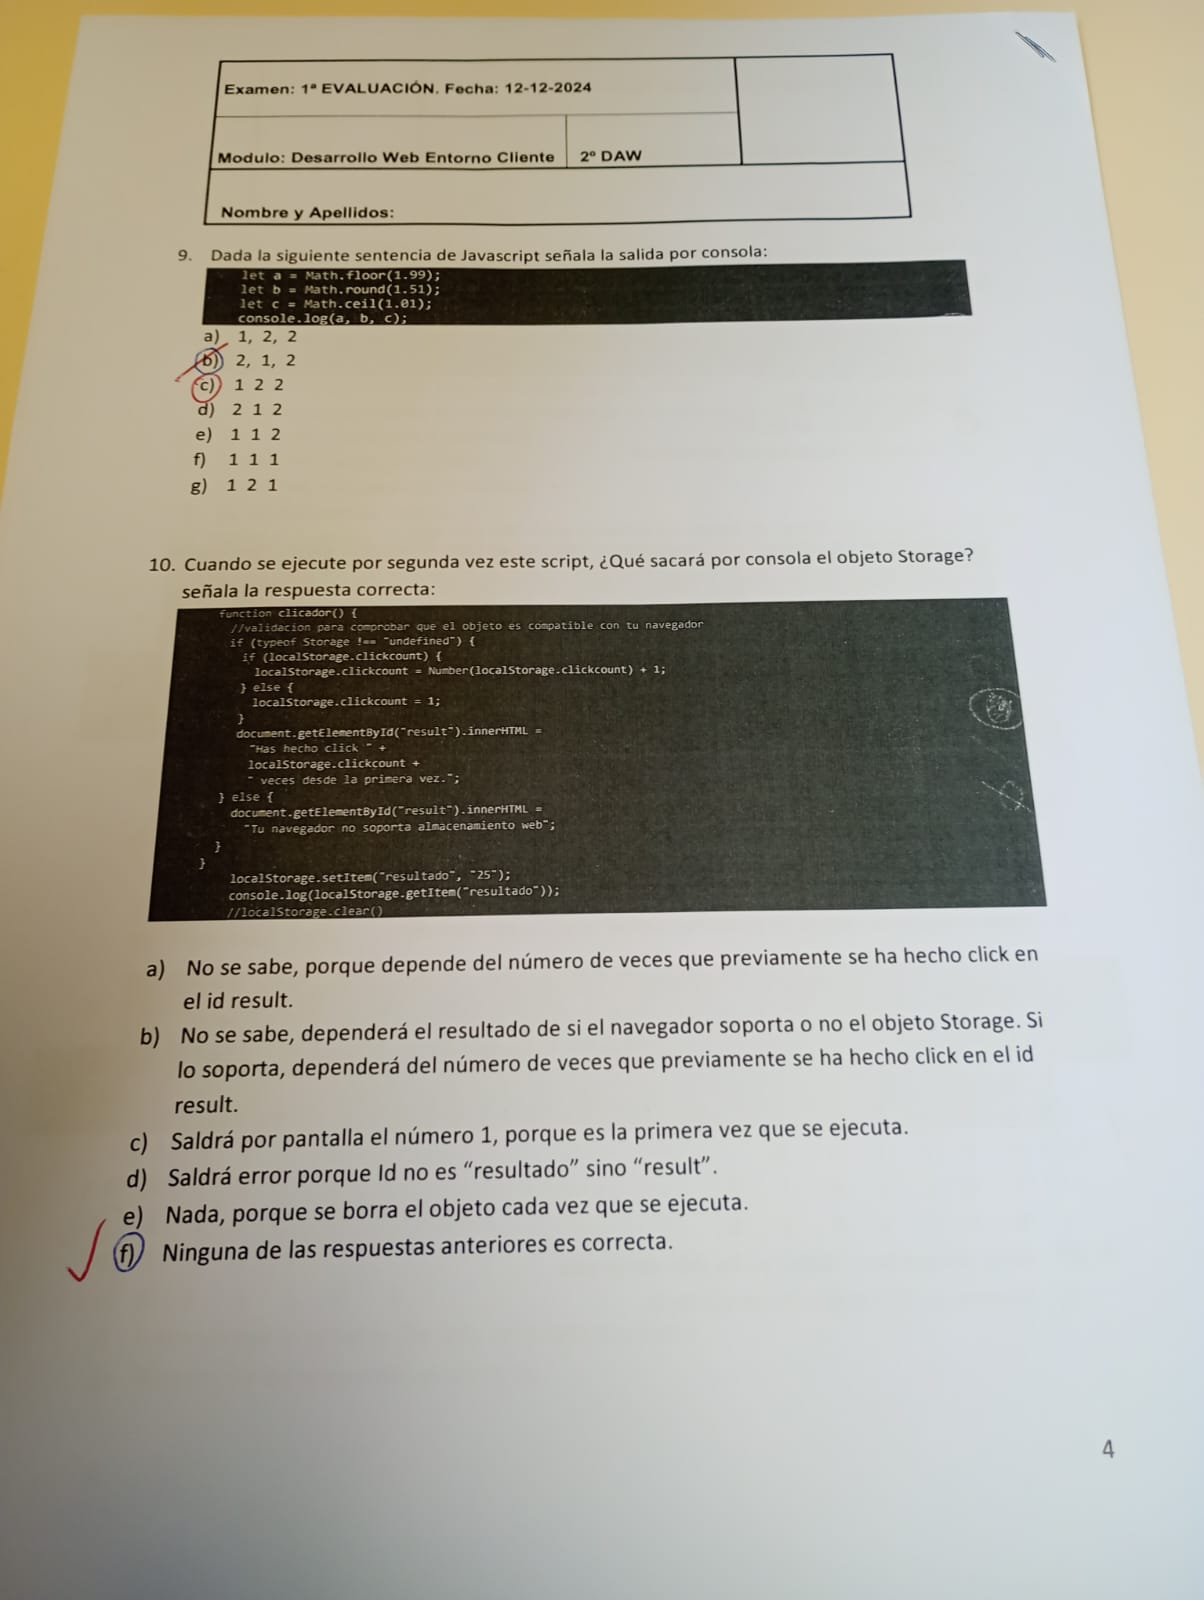
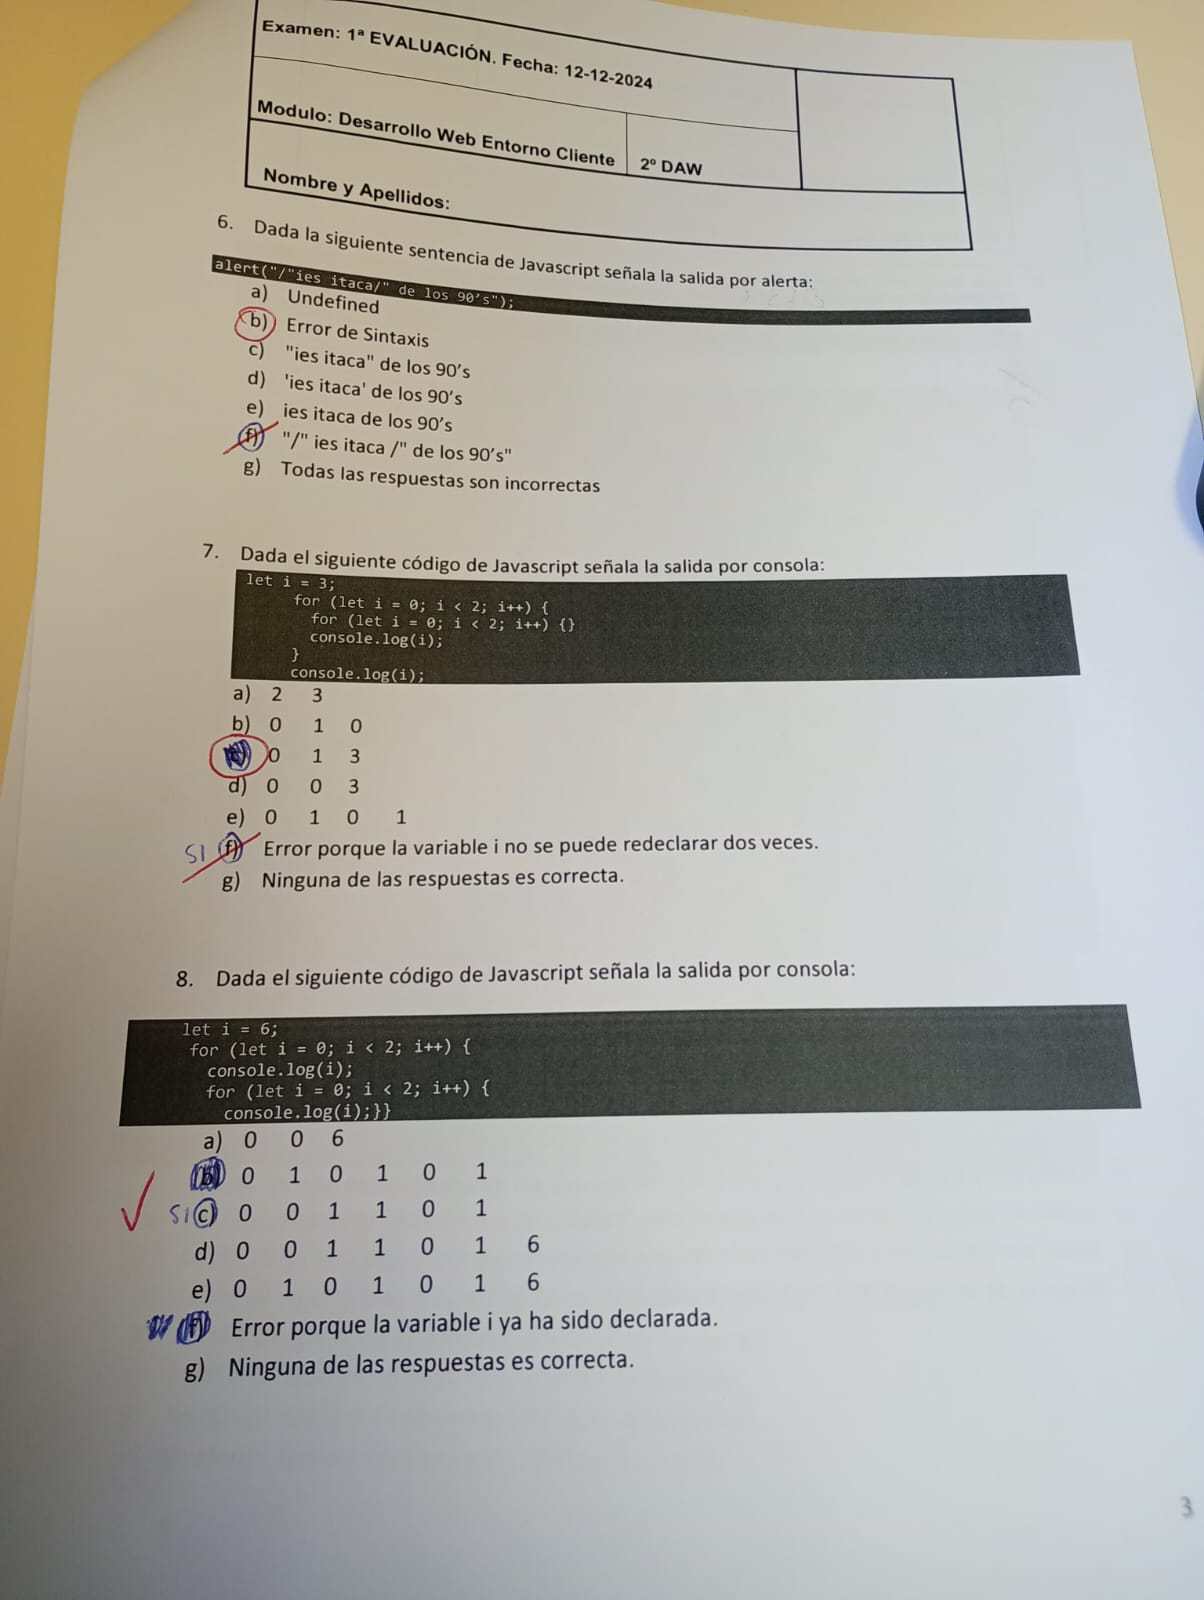
masPruebas_Examen

diff --git a/Entorno Cliente/examenPrueba/Ejercicio2_variante/code.js b/Entorno Cliente/examenPrueba/Ejercicio2_variante/code.js
@@ -1,0 +1,180 @@
+//llamamos a los elementos del DOM
+document.addEventListener('DOMContentLoaded', () => {
+    const camposReserva = {
+        nombre: document.getElementById('nombreReserva'),
+        telefono: document.getElementById('telefono'),
+        email: document.getElementById('emailReserva'),
+        codigo: document.getElementById('codigoReserva'),
+        fecha: document.getElementById('fechaLlegada'),
+        btnConfirmar: document.getElementById('btnConfirmar'),
+        mensaje: document.getElementById('msgReserva')
+    };
+
+    const camposPago = {
+        tarjeta: document.getElementById('numTarjeta'),
+        cvv: document.getElementById('cvv'),
+        titular: document.getElementById('titularTarjeta'),
+        btnPagar: document.getElementById('btnPagar'),
+        mensaje: document.getElementById('msgPago')
+    };
+
+    camposReserva.btnConfirmar.disabled = true;
+    camposPago.btnPagar.disabled = true;
+
+
+//implementamos funciones de validacion
+function validarTelefono(valor){
+//^ --> inicio  \d --> digitos  {9} --> 9 veces   $--> fin
+//TODO VA ENTRE / 
+// .test devuelve true or false, de si la validacion esta en valor
+    return /^\d{9}$/.test(valor);
+}
+
+function validarNombreReserva(valor){
+//. --> todos caracteres  {3,10}--> entre 3 y 10 veces
+
+    return /^.{3,10}$/.test(valor);
+}
+
+function validarEmailReserva(valor){
+//debe tener @ y .com o .es
+//la i despues de $/ se pone para declarar que es case insensitive
+    return /^.+@.*\.(com|es)$/i.test(valor);
+}
+
+function validarCodigoReserva(valor){
+//debe tener 3 letras(mayus o minus) y 4 digitos seguidos
+    return /^[A-Za-z]{3}\d{4}$/.test(valor);
+}
+
+function validarFecha(valor){
+    //comprueba que no está vacio
+    //trim devuelve string sin espacios en blanco
+    return valor.trim().length > 0;
+}
+
+// Funciones de PAGO
+    function validarTarjeta(valor) {
+        return /^\d{16}$/.test(valor);
+    }
+
+    function validarCVV(valor) {
+        return /^\d{3,4}$/.test(valor);
+    }
+
+    function validarTitular(valor) {
+        return /^[A-Za-zñÑáéíóúÁÉÍÓÚ\s]{3,}$/.test(valor);
+    }
+
+function validarCamposReserva() {
+    let errores = [];
+    let valido = true;
+
+    // Comprobación de obligatoriedad (usando camposReserva.propiedad)
+    if (!camposReserva.nombre.value || !camposReserva.telefono.value || !camposReserva.email.value || !camposReserva.codigo.value || !camposReserva.fecha.value) {
+        errores.push("Todos los campos de reserva son obligatorios.");
+        valido = false;
+    }
+
+    // Comprobación de reglas específicas
+    if (camposReserva.nombre.value && !validarNombreReserva(camposReserva.nombre.value)) {
+        errores.push("El nombre debe tener entre 3 y 10 caracteres.");
+        valido = false;
+    }
+
+    if (camposReserva.telefono.value && !validarTelefono(camposReserva.telefono.value)) {
+        errores.push("El teléfono debe tener 9 dígitos.");
+        valido = false;
+    }
+
+    if (camposReserva.email.value && !validarEmailReserva(camposReserva.email.value)) {
+        errores.push("El email debe ser válido y acabar en .com o .es.");
+        valido = false;
+    }
+
+    if (camposReserva.codigo.value && !validarCodigoReserva(camposReserva.codigo.value)) {
+        errores.push("El código debe ser: 3 letras + 4 números (ej: ABC1234).");
+        valido = false;
+    }
+    
+    // (La comprobación de fecha no necesita corrección aquí, ya que ya usa camposReserva.fecha)
+
+    // Mostrar mensajes y habilitar botón
+    camposReserva.mensaje.className = 'mensaje';
+    if (errores.length > 0) {
+        camposReserva.mensaje.classList.add('error');
+        // Usamos <br> y emoji para separar los errores
+        camposReserva.mensaje.innerHTML = `${errores.join('<br/>')}`;
+        camposReserva.btnConfirmar.disabled = true;
+    } else if (valido) {
+        camposReserva.mensaje.classList.add('success');
+        camposReserva.mensaje.innerHTML = "Datos válidos.";
+        camposReserva.btnConfirmar.disabled = false;
+    }
+
+    return valido;
+}
+
+Object.values(camposReserva).forEach(campo => {
+    if(campo.tagName == 'INPUT'){
+        campo.addEventListener('input', validarCamposReserva);
+    }
+});
+
+// Evento del botón de Confirmar Reserva
+    camposReserva.btnConfirmar.addEventListener('click', () => {
+        camposReserva.btnConfirmar.disabled = true;
+        camposPago.btnPagar.disabled = false;
+        camposReserva.mensaje.innerHTML = "Reserva confirmada. Proceda al pago.";
+    });
+
+    // Ejecución inicial (para deshabilitar si está vacío)
+    validarCamposReserva();
+
+    // --- LÓGICA DE PAGO (Paso 4, que faltaba) ---
+    // AÑADE AQUÍ LOS BLOQUES DE VALIDACIÓN DE PAGO DEL PUNTO 2
+    camposPago.btnPagar.addEventListener('click', (e) => {
+        e.preventDefault(); 
+
+        let errores = [];
+        const{
+            tarjeta, cvv, titular, btnPagar, mensaje
+        } = camposPago;
+        let valido = true;
+
+        // 1. Verificar OBLIGATORIEDAD
+        if (!tarjeta.value || !cvv.value || !titular.value) {
+            errores.push("Todos los campos de pago son obligatorios.");
+            valido = false;
+        }
+
+        // 2. Verificar REGLAS ESPECÍFICAS
+        if (tarjeta.value && !validarTarjeta(tarjeta.value)) {
+            errores.push("Número de Tarjeta debe tener 16 dígitos.");
+            valido = false;
+        }
+        if (cvv.value && !validarCVV(cvv.value)) {
+            errores.push("CVV debe tener 3 o 4 dígitos.");
+            valido = false;
+        }
+        if (titular.value && !validarTitular(titular.value)) {
+            errores.push("Titular debe tener al menos 3 letras.");
+            valido = false;
+        }
+
+        // 3. Mostrar mensajes y finalizar
+        mensaje.className = 'mensaje'; 
+        if (errores.length > 0) {
+            mensaje.classList.add('error');
+            mensaje.innerHTML = `Error en el pago. ${errores.join('<br/>')}`;
+        } else if(valido){
+            mensaje.classList.add('success');
+            mensaje.innerHTML = "Pago realizado con éxito. Reserva finalizada.";
+            btnPagar.disabled = true; // Deshabilitar el botón al finalizar el proceso
+        }
+    });
+    
+    // Ejecución inicial (necesaria para deshabilitar el botón si está vacío al cargar)
+    validarCamposReserva();
+
+});

diff --git a/Entorno Cliente/examenPrueba/Ejercicio1_variante/code.js b/Entorno Cliente/examenPrueba/Ejercicio1_variante/code.js
@@ -1,0 +1,91 @@
+class Hotel {
+    constructor(nombre, ciudad, estrellas) {
+        this._nombre = nombre;
+        this._ciudad = ciudad;
+        this._estrellas = estrellas;
+
+        this._plantas = [];
+        console.log(`Nuevo hotel creado: Nombre ${this._nombre}en ${this._ciudad}, Estrellas: ${this._estrellas}.`);
+    }
+
+    imprimeNombre() {
+        return this._nombre;
+    }
+
+    imprimeCiudad() {
+        return this._ciudad;
+    }
+
+    imprimeEstrellas() {
+        return this._estrellas;
+    }
+
+    modificarNombre(nuevoNombre) {
+        this._nombre = nuevoNombre;
+    }
+
+    modificarCiudad(nuevaCiudad) {
+        this._ciudad = nuevaCiudad;
+    }
+
+    modificarEstrellas(nuevasEstrellas) {
+        this._estrellas = nuevasEstrellas;
+    }
+
+    //agregar plantas y habitaciones
+    agregarPlantasYHabitaciones(numPlantas, habitaciones) {
+        for (let i = 0; i < numPlantas; i++) {
+            const nuevaPlanta = Array(habitaciones).fill("Libre");
+            this._plantas.push(nuevaPlanta);
+        }
+    }
+
+    agregarHuesped(nombre, planta, habitacion) {
+        //convertimos la planta(empiezan en 1) a indice(empiezan en 0)
+        const indicePlanta = planta - 1;
+        const indiceHabitacion = habitacion - 1;
+
+        if (indicePlanta < 0 || indicePlanta >= this._plantas.length) {
+            console.log(`ERROR: La planta ${planta} no es válida.`);
+            return;
+        }
+        if (!indiceHabitacion < 0 || indiceHabitacion >= this._plantas[indicePlanta].length) {
+            console.log(`ERROR: La habitación ${habitacion} no es válida.`);
+            return;
+        }
+        this._plantas[indicePlanta][indiceHabitacion] = nombre;
+        console.log(`${nombre} es ahora el huésped de la habitación ${habitacion}, en la planta ${planta}.`)
+    }
+
+    imprimePlantas(){
+        console.log(`Listado de huéspedes del hotel ${this._nombre}:`);
+        this._plantas.forEach((planta,i) => {
+            const numPlanta = i + 1;
+            planta.forEach((huesped,j) => {
+                const numHabitacion = j + 1;
+                console.log(`Planta ${numPlanta}, Habitación ${numHabitacion}: ${huesped}`);
+            });
+        });
+    }
+}
+
+//codigo uso
+const hotelA = new Hotel("Costa Azul","Barcelona", 4);
+const hotelB = new Hotel("Mirador Real","Madrid",5);
+
+console.log("---");
+
+console.log(`El hotel ${hotelA.imprimeNombre()} está en ${hotelA.imprimeCiudad()} y tiene ${hotelA.imprimeEstrellas()} estrellas.`);
+console.log(`El hotel ${hotelB.imprimeNombre()} tiene ${hotelB.imprimeEstrellas()} estrellas.`);
+
+// Agregar plantas y habitaciones
+hotelA.agregarPlantasYHabitaciones(2, 3);
+
+// Agregar huéspedes
+hotelA.agregarHuesped("Laura Pérez", 1, 1);
+hotelA.agregarHuesped("Mario Sánchez", 1, 2);
+hotelA.agregarHuesped("Ana Torres", 1, 3);
+hotelA.agregarHuesped("Sofía Ruiz", 2, 2);
+
+// Imprimir listado de huéspedes
+hotelA.imprimePlantas();

diff --git a/Entorno Cliente/examenPrueba/Ejercicio2_variante/index.html b/Entorno Cliente/examenPrueba/Ejercicio2_variante/index.html
@@ -1,0 +1,57 @@
+<!DOCTYPE html>
+<html lang="es">
+
+<head>
+    <meta charset="UTF-8">
+    <meta name="viewport" content="width=device-width, initial-scale=1.0">
+    <title>Reserva y Pago</title>
+</head>
+
+<body>
+
+    <h1>Gestión de Reservas de Hotel</h1>
+    <fieldset>
+        <legend>1. Datos de la Reserva</legend>
+
+        <label for="nombreReserva">Nombre:</label>
+        <input type="text" id="nombreReserva">
+        <br/>
+        <label for="telefono">Teléfono:</label>
+        <input type="text" id="telefono">
+        <br/>
+        <label for="emailReserva">Email:</label>
+        <input type="email" id="emailReserva">
+        <br/>
+        <label for="codigoReserva">Código de Reserva:</label>
+        <input type="text" id="codigoReserva">
+        <br/>
+        <label for="fechaLlegada">Fecha de Llegada:</label>
+        <input type="date" id="fechaLlegada">
+
+        <br/><br/>
+        <button id="btnConfirmar">Confirmar Reserva</button>
+        <br/><br/>
+        <div id="msgReserva"></div>
+    </fieldset>
+
+    <fieldset>
+        <legend>2. Datos de Pago</legend>
+
+        <label for="numTarjeta">Número de Tarjeta:</label>
+        <input type="text" id="numTarjeta">
+        <br/>
+        <label for="cvv">Código CVV:</label>
+        <input type="text" id="cvv">
+        <br/>
+        <label for="titularTarjeta">Titular de la Tarjeta:</label>
+        <input type="text" id="titularTarjeta">
+        <br/>
+        <button id="btnPagar">Pagar</button>
+        <br/><br/>
+        <div id="msgPago"></div>
+
+        <script src="code.js"></script>
+    </fieldset>
+</body>
+
+</html>

diff --git a/Entorno Cliente/examenPrueba/Ejercicio1_variante/index.html b/Entorno Cliente/examenPrueba/Ejercicio1_variante/index.html
@@ -1,0 +1,11 @@
+<!DOCTYPE html>
+<html lang="es">
+<head>
+    <meta charset="UTF-8">
+    <meta name="viewport" content="width=device-width, initial-scale=1.0">
+    <title>Prueba Hoteles</title>
+</head>
+<body>
+    <script src="code.js"></script>
+</body>
+</html>
